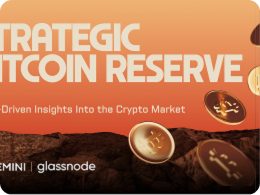
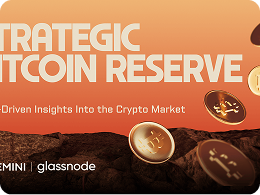
feat: ui blog

diff --git a/src/components/blogs/index.tsx b/src/components/blogs/index.tsx
@@ -1,32 +1,17 @@
 'use client'
-import { blog as enBlog } from '@/i18n/messages/en.json';
-import { blog as ziBlog } from '@/i18n/messages/zi.json';
-import image2 from '@/images/blog/image(1).png';
-import image1 from '@/images/blog/image.png';
 import blog_logo from '@/images/blog/image1991.png';
 import search from '@/images/blog/search.svg';
-import { useLocale, useTranslations } from 'next-intl';
+import { useTranslations } from 'next-intl';
 import Image from 'next/image';
-import { useState } from 'react';
-import Card from './card';
+import FeaturedArticles from './featured/featured-articles';
+import LatestBlog from './lastest/latest-blog';
 
 const BlogScreen = () => {
-
-    const locale = useLocale();
     const t = useTranslations('blog');
-
-    const blogData = locale === 'en' ? enBlog : ziBlog;
-    const listCardData = blogData.listCardData;
-    const tags = blogData.tags;
-
-    //filter tags
-    const [selectTag, setSelectTag] = useState('All');
-
-    const filterCard = selectTag === 'All' ? listCardData : listCardData.filter((card) => card.tags.includes(selectTag));
 
 
     return (
-        <div className='mt-6'>
+        <div className='pt-[128px]'>
             {/* Header Section */}
             <div className='flex flex-col justify-center items-center'>
                 <Image src={blog_logo} alt="Blog Logo" />
@@ -40,103 +25,8 @@ const BlogScreen = () => {
                 </div>
             </div>
 
-            {/* Card Section */}
-            <div className="px-6 md:px-16 lg:px-24 xl:px-32 py-12">
-                <h2 className="text-4xl font-semibold mb-6 text-primary-black">{t('featuredArticle')}</h2>
-                <div className="grid md:grid-cols-2 gap-6">
-                    {/* Featured Left Article */}
-                    <Card
-                        id={listCardData[0].id}
-                        title={listCardData[0].title}
-                        date={listCardData[0].date}
-                        readTime={listCardData[0].readTime}
-                        tags={listCardData[0].tags}
-                        image={listCardData[0].image}
-                        CardBg={false}
-                    />
-
-                    {/* Side Articles */}
-                    <div className="flex flex-col gap-4 h-full">
-                        {/* Article 1 */}
-                        <div className="flex gap-4 p-4 border border-gray-300 rounded-xl bg-white h-[48%]">
-                            <div className="w-[50%] h-[100%] relative">
-                                <Image
-                                    src={image1}
-                                    alt="Article 1"
-                                    fill
-                                    className="rounded-md object-cover"
-                                />
-                            </div>
-                            <div className="flex flex-col gap-5 w-[50%]">
-                                <p className="text-sm text-gray-500">{listCardData[1].date} • {listCardData[1].readTime}</p>
-                                <p className="text-md font-semibold h-[30%]">
-                                    {listCardData[1].title}
-                                </p>
-                                <div className="flex gap-2 mt-2">
-                                    {listCardData[1].tags.map((tag) => (
-                                        <span key={tag} className="cursor-pointer text-sm font-medium border border-gray-400 rounded-full px-4 py-2">{tag}</span>
-                                    ))}
-                                </div>
-                            </div>
-                        </div>
-
-                        {/* Article 2 */}
-                        <div className="flex gap-4 p-4 border border-gray-300 rounded-xl bg-white h-[48%]">
-                            <div className="w-[50%] h-[100%] relative">
-                                <Image
-                                    src={image2}
-                                    alt="Article 2"
-                                    fill
-                                    className="rounded-md object-cover"
-                                />
-                            </div>
-                            <div className="flex flex-col gap-5 w-[50%]">
-                                <p className="text-sm text-gray-500">{listCardData[2].date} • {listCardData[2].readTime}</p>
-                                <p className="text-md font-semibold h-[30%]">
-                                    {listCardData[2].title}
-                                </p>
-                                <div className="flex gap-2 mt-2">
-                                    {listCardData[2].tags.map((tag) => (
-                                        <span key={tag} className="cursor-pointer text-sm font-medium border border-gray-400 rounded-full px-4 py-2">{tag}</span>
-                                    ))}
-                                </div>
-                            </div>
-                        </div>
-                    </div>
-                </div>
-            </div>
-
-            {/* All Articles Section */}
-            <div className="px-6 md:px-16 lg:px-24 xl:px-32 my-12">
-                <h2 className="text-5xl font-semibold text-center mb-6">{t('latestBlog')}</h2>
-                <div className="flex gap-2 my-6 justify-center">
-                    {tags.map((tag) => (
-                        <span
-                            onClick={() => setSelectTag(tag)}
-                            key={tag}
-                            className={`${selectTag === tag ? 'bg-black text-white' : 'hover:bg-black hover:text-white bg-gray-200'} text-sm rounded-full px-4 py-2 cursor-pointer  font-medium`}
-                        >
-
-                            {tag}
-                        </span>
-                    ))}
-                </div>
-
-                <div className="grid md:grid-cols-3 gap-6">
-                    {filterCard.map((card) => (
-                        <Card
-                            key={card.id}
-                            id={card.id}
-                            title={card.title}
-                            date={card.date}
-                            readTime={card.readTime}
-                            tags={card.tags}
-                            image={card.image}
-                            CardBg={true}
-                        />
-                    ))}
-                </div>
-            </div>
+            <FeaturedArticles featuredArticle={t("featuredArticle")} />
+            <LatestBlog title={t('latestBlog')} />
         </div>
     )
 }

diff --git a/src/components/blogs/lastest/card.tsx b/src/components/blogs/lastest/card.tsx
@@ -1,0 +1,57 @@
+'use client';
+
+import Image, { StaticImageData } from 'next/image';
+import { useParams, useRouter } from 'next/navigation';
+import { FaLink } from 'react-icons/fa';
+
+type CardProps = {
+    title: string;
+    tag: string[];
+    image: string | StaticImageData;
+    slug: string;
+};
+
+const Card = ({ title, tag, image, slug }: CardProps) => {
+    // const router = useRouter();
+    // const params = useParams();
+    // const locale = params.locale as string;
+
+    // const handleClick = () => {
+    //     if (id) {
+    //         router.push(`/${locale}/blog-detail/${id}`);
+    //     }
+    // };
+
+    return (
+        <div
+            className={`flex flex-col rounded-3xl group cursor-pointer`}
+        >
+            <div className="w-full h-full">
+                <Image
+                    src={image}
+                    alt="Spotlight"
+                    className="rounded-lg w-full h-full"
+                />
+            </div>
+            <div className="w-full flex flex-col justify-between mt-4">
+                <div>
+                    <h3 className="text-md font-semibold mb-3">
+                        {title}
+                    </h3>
+                </div>
+                <div className="flex items-center gap-2">
+                    <div className='flex items-center gap-3 mt-4'>
+                        {tag.map((item, index) => {
+                            return (
+                                <p key={index} className='py-2 px-4 border border-[#d8d8d8] rounded-full w-fit capitalize text-[#1b1b1b] font-medium text-sm'>{item}</p>
+                            )
+                        })}
+                    </div>
+                    <FaLink className="text-gray-300 ml-auto group-hover:text-orange-200" />
+                </div>
+            </div>
+        </div>
+    );
+};
+
+export default Card;

diff --git a/src/components/blogs/featured/featured-articles.tsx b/src/components/blogs/featured/featured-articles.tsx
@@ -1,0 +1,39 @@
+import React from 'react'
+import image1 from "@/images/blog/Frame2147226727.png"
+import image2 from "@/images/blog/image.png"
+import image3 from "@/images/blog/image(1).png"
+import FeaturedCard from './featured-card';
+
+
+interface FeaturedArticlesProps {
+    featuredArticle: string;
+}
+
+const images = [image1, image2, image3]
+
+
+const FeaturedArticles = ({ featuredArticle }: FeaturedArticlesProps) => {
+    return (
+        <div className='container mx-auto py-12'>
+            <div className='w-full lg:w-[1200px] mx-auto'>
+                <h2 className={`text-[40px] text-[#1b1b1b] font-semibold -tracking-[0.64px] mb-6`}>{featuredArticle}</h2>
+                <div className='grid grid-cols-1 md:grid-cols-2 gap-6'>
+                    {images.map((item, index) => {
+                        return (
+                            <div key={index} className={`col-span-1 ${index === 0 ? "row-span-2" : "row-span-1"}`}>
+                                <FeaturedCard
+                                    title='Futureverse’s co-founder: "If you’re not in the metaverse already, you’re probably not part of society"'
+                                    tag={["blog", "media"]}
+                                    image={item}
+                                    className={`flex gap-x-6 ${index === 0 ? "flex-col" : "flex-row"}`}
+                                />
+                            </div>
+                        )
+                    })}
+                </div>
+            </div>
+        </div>
+    )
+}
+
+export default FeaturedArticles

diff --git a/src/components/blogs/lastest/latest-blog.tsx b/src/components/blogs/lastest/latest-blog.tsx
@@ -1,0 +1,44 @@
+"use client"
+import React, { useState } from 'react'
+
+interface LatestProps {
+    title: string;
+}
+
+const tags = ["all", "announcements", "insights", "media", "trends"];
+
+const LatestBlog = ({ title }: LatestProps) => {
+
+    const [selectTag, setSelectTag] = useState('all');
+
+
+    const handleClickTag = (tag: string) => {
+        if (tag !== selectTag) {
+            setSelectTag(tag)
+        }
+    }
+
+    return (
+        <div className='container mx-auto py-12'>
+            <div className='w-full lg:w-[1200px] mx-auto'>
+                <h2 className={`text-[40px] text-[#1b1b1b] font-semibold -tracking-[0.64px] mb-6 text-center`}>{title}</h2>
+                <div className="flex gap-2 my-6 justify-center">
+                    {tags.map((tag, index) => (
+                        <p
+                            onClick={() => handleClickTag(tag)}
+                            key={index}
+                            className={`${selectTag === tag ? 'bg-[#212121] text-white' : 'hover:bg-[#212121] hover:text-white bg-black/10'} transition-all ease-linear duration-150 capitalize rounded-full px-4 py-2 cursor-pointer`}
+                        >
+                            <span className='text-sm font-medium'>{tag}</span>
+                        </p>
+                    ))}
+                </div>
+                <div>
+
+                </div>
+            </div>
+        </div>
+    )
+}
+
+export default LatestBlog

diff --git a/src/components/blogs/featured/featured-card.tsx b/src/components/blogs/featured/featured-card.tsx
@@ -1,0 +1,35 @@
+import Image, { StaticImageData } from 'next/image';
+import React from 'react'
+
+
+interface FeaturedCardProps {
+    title: string;
+    desc?: string;
+    tag: string[];
+    image: string | StaticImageData;
+    className?: string;
+}
+
+const FeaturedCard = ({ title, desc, tag, image, className }: FeaturedCardProps) => {
+    return (
+        <div className={`${className} p-4 border border-[#d8d8d8] rounded-4xl h-full group cursor-pointer overflow-hidden`}>
+            <figure className='min-h-[194px] min-w-[260px] rounded-[12px] overflow-hidden'>
+                <Image src={image} alt='image' className='group-hover:scale-125 transition-all ease-linear duration-200' />
+            </figure>
+
+            <div className='py-4'>
+                <h3 className='group-hover:text-[#666] text-[#1b1b1b] font-semibold text-base'>{title}</h3>
+                <p>{desc}</p>
+                <div className='flex items-center gap-3 mt-4'>
+                    {tag.map((item, index) => {
+                        return (
+                            <p key={index} className='py-2 px-4 border border-[#d8d8d8] rounded-full w-fit capitalize text-[#1b1b1b] font-medium text-sm'>{item}</p>
+                        )
+                    })}
+                </div>
+            </div>
+        </div>
+    )
+}
+
+export default FeaturedCard

diff --git a/src/components/blogs/blog-detail.tsx b/src/components/blogs/blog-detail.tsx
@@ -1,5 +1,5 @@
 'use client';
-import Card from '@/components/blogs/card';
+import Card from '@/components/blogs/lastest/card';
 import { blog as enBlog } from '@/i18n/messages/en.json';
 import { blog as ziBlog } from '@/i18n/messages/zi.json';
 import { useLocale, useTranslations } from 'next-intl';
@@ -118,7 +118,7 @@ const BlogDetail = ({ id }: BlogDetailProps) => {
             </div>
 
             {/* Related Posts */}
-            <div className="mt-16">
+            {/* <div className="mt-16">
                 <h2 className="text-2xl md:text-3xl font-semibold mb-6">
                     {locale === 'en' ? 'Further Reading' : '进一步阅读'}
                 </h2>
@@ -136,7 +136,7 @@ const BlogDetail = ({ id }: BlogDetailProps) => {
                         />
                     ))}
                 </div>
-            </div>
+            </div> */}
         </div>
     );
 };

diff --git a/src/components/blogs/featured/index.ts b/src/components/blogs/featured/index.ts
@@ -1,0 +1,2 @@
+export * from "./featured-articles";
+export * from "./featured-card";

diff --git a/src/components/blogs/lastest/index.ts b/src/components/blogs/lastest/index.ts
@@ -1,0 +1,1 @@
+export * from "./latest-blog"
